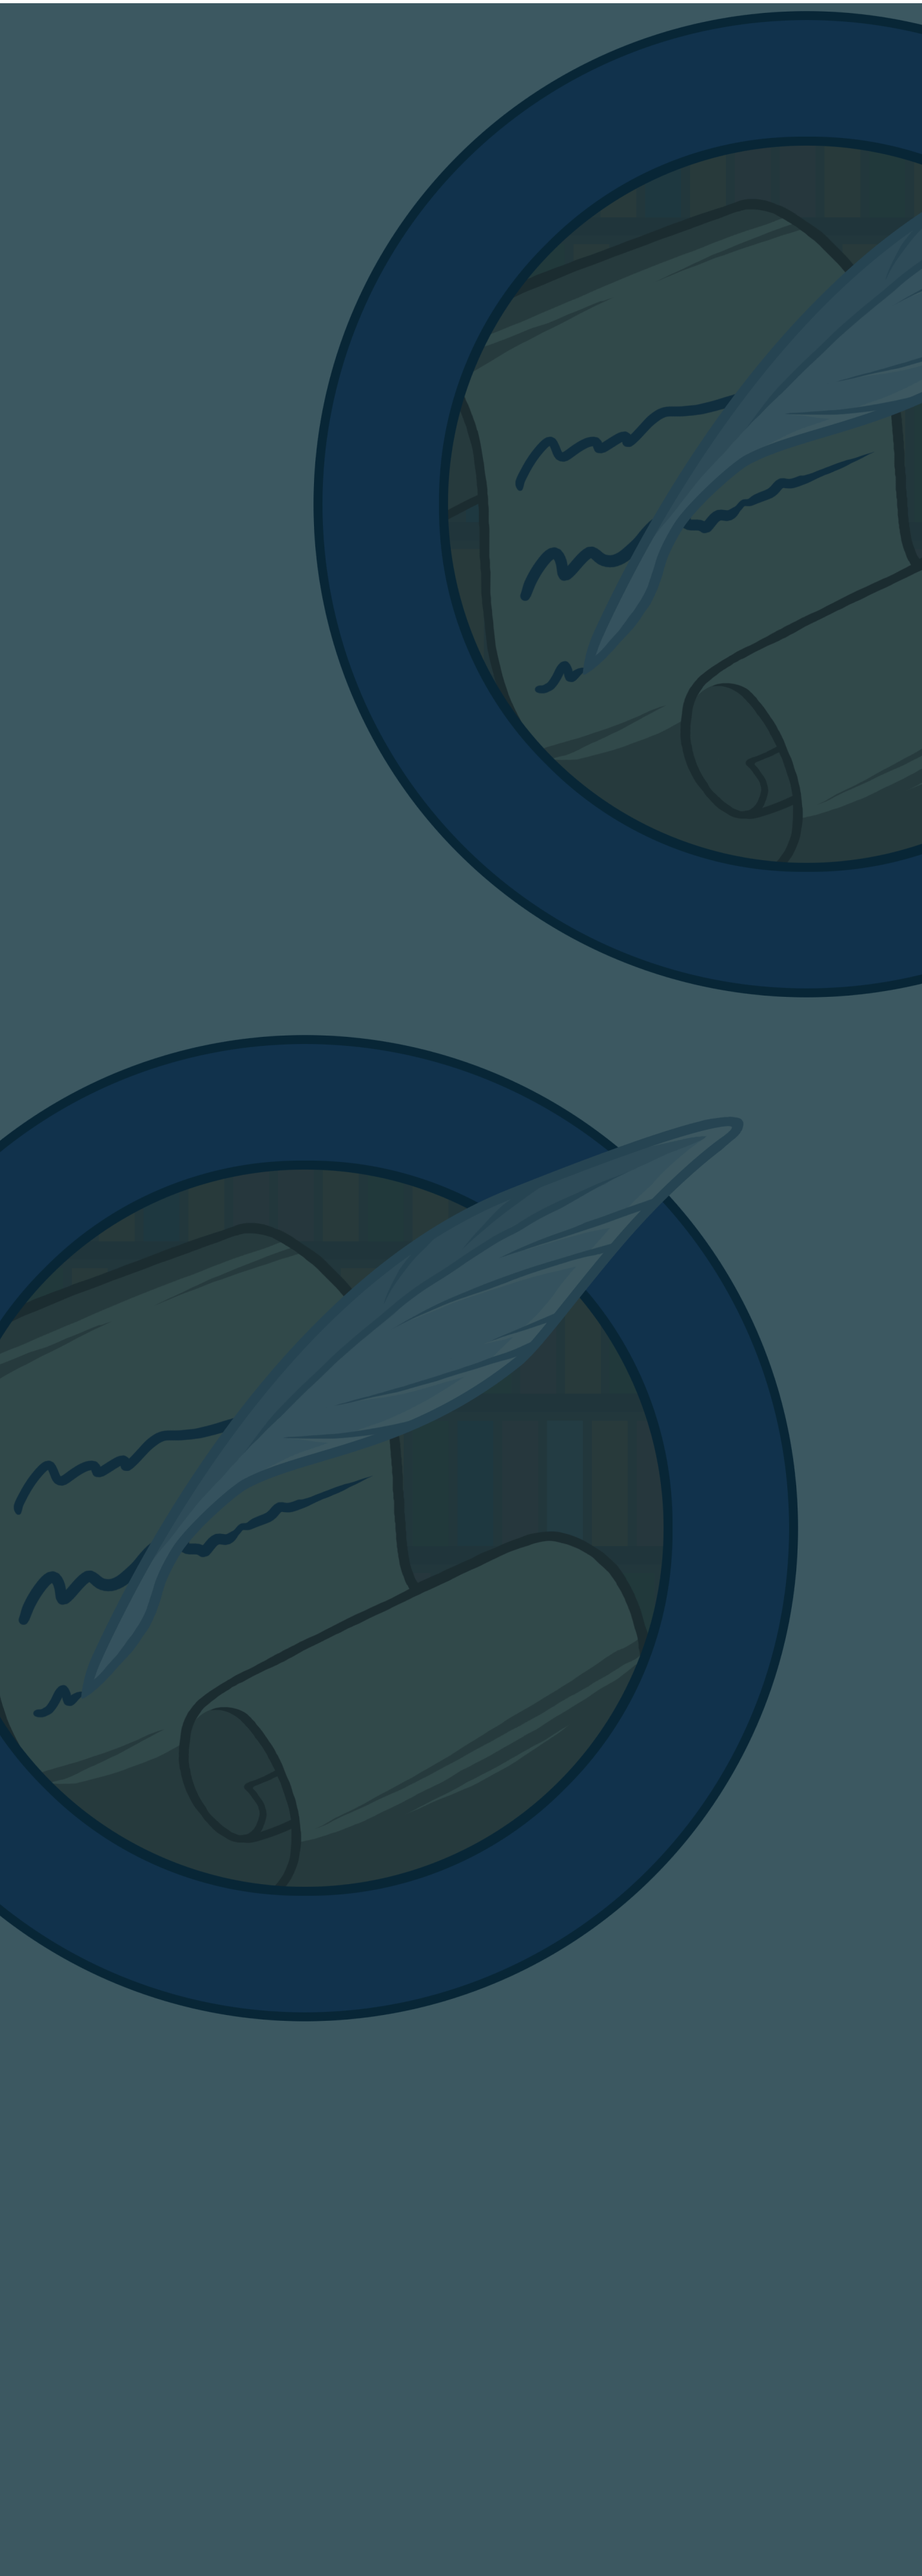
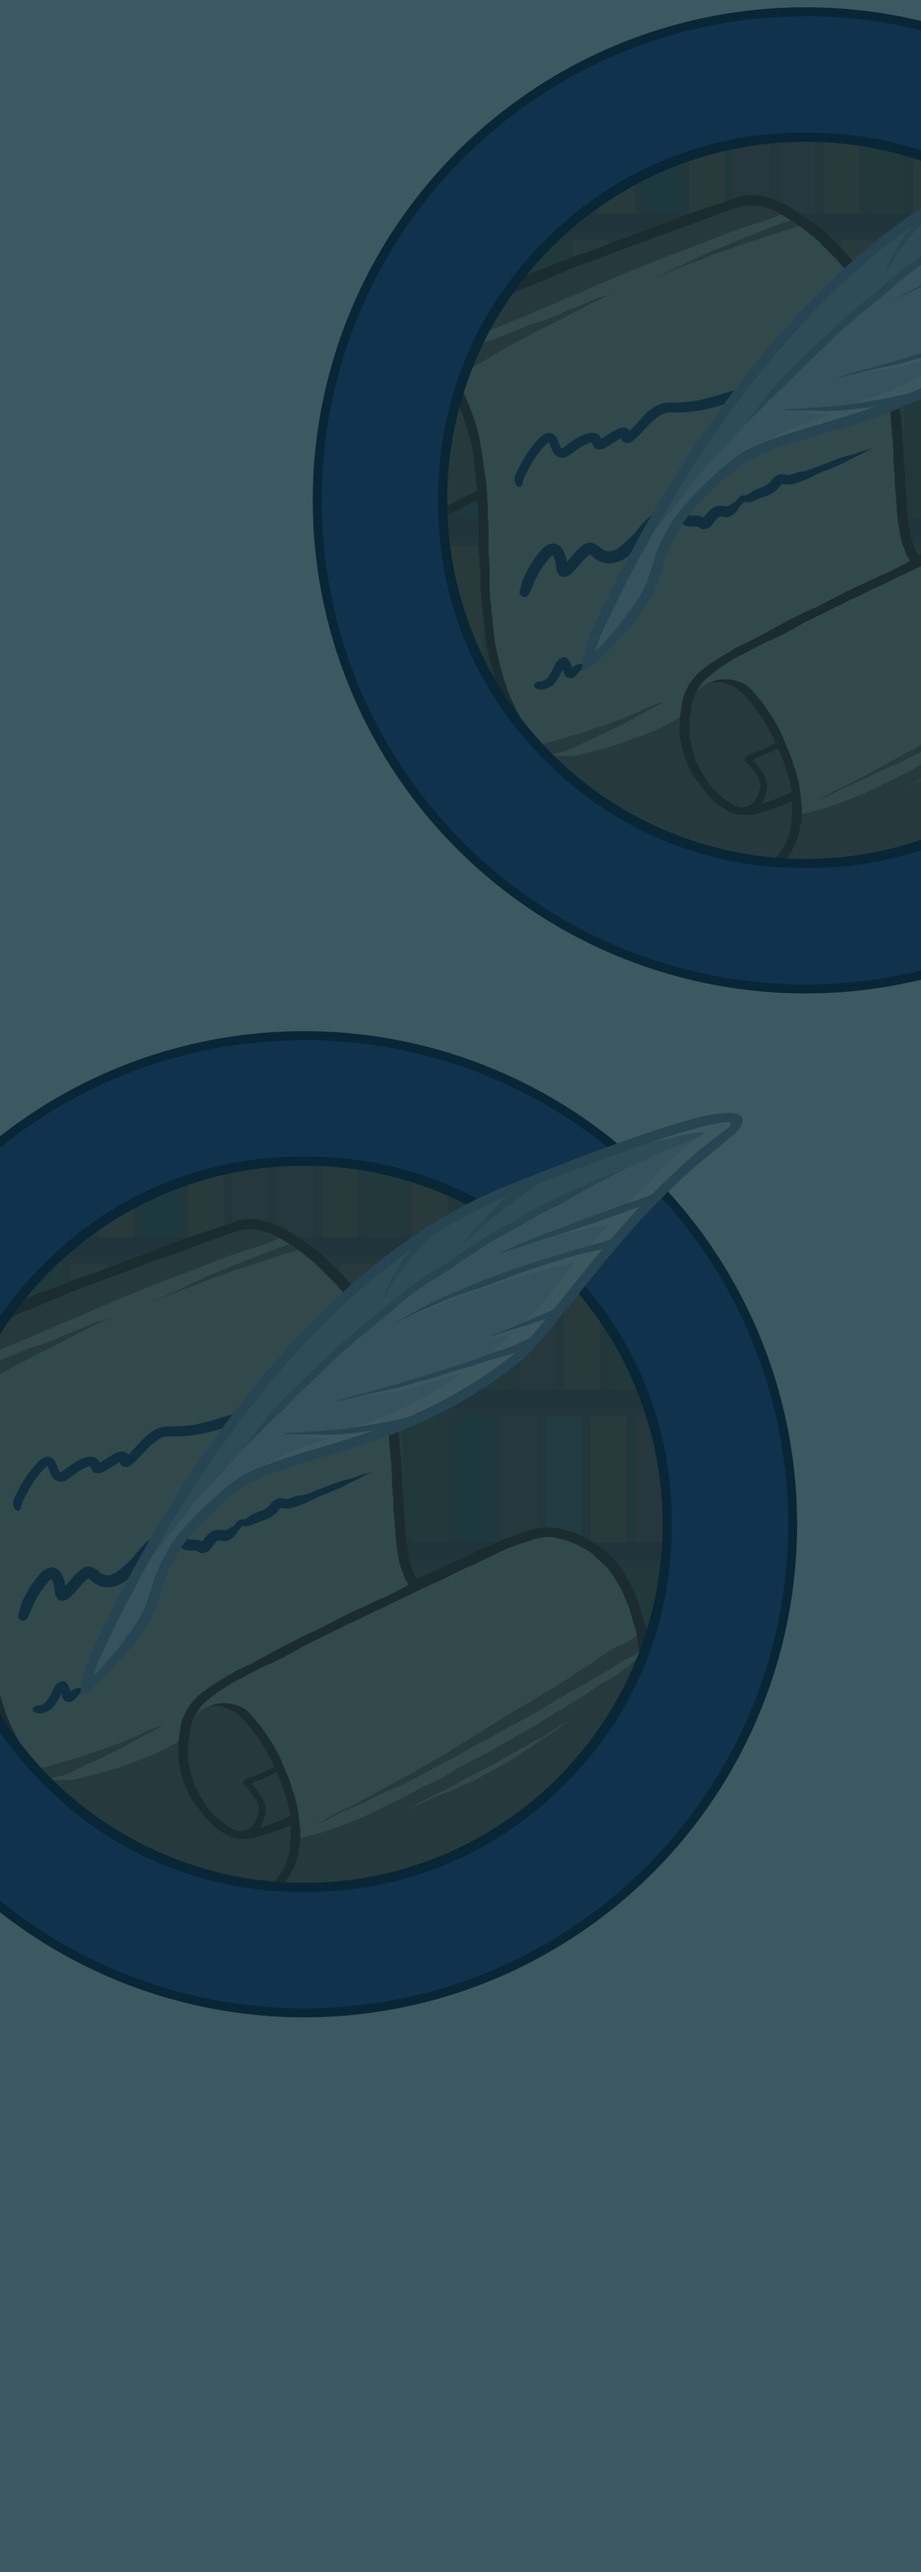
fixed and edited background img

diff --git a/src/components/AboutPage.vue b/src/components/AboutPage.vue
@@ -62,6 +62,17 @@
         <img class="bio-img" src="../assets/Stef.jpg" alt="Stef Wilson" />
       </div>
     </div>
+    <div class="bio-wrapper">
+      <h1>Kerry Anne</h1>
+      <div class="bio-container-left">
+        <div class="bio-inner-container-left">
+          <p>Kerry is the Digital Color Artist and Director of Operations at Bad Kerry Studios. She works with Naughty Faeries, Outpost 426 Studios, Totally Rad Comics, Sacred Chaos Comics, and others. She has many years experience in both the IT and graphic design industry and began coloring comic covers in late-2019. Her work has been featured on nearly a dozen covers already.</p>
+        </div>
+      </div>
+      <div class="bio-img-border-right">
+        <img class="bio-img" src="../assets/Kerry.jpg" alt="Kerry Anne" />
+      </div>
+    </div>
   </div>
 </template>
 

diff --git a/src/App.vue b/src/App.vue
@@ -71,6 +71,7 @@
   width: 100%;
   position: relative;
   padding-bottom: 120px;
+  background-position-y: -5px;
 }
 
 #nav {
